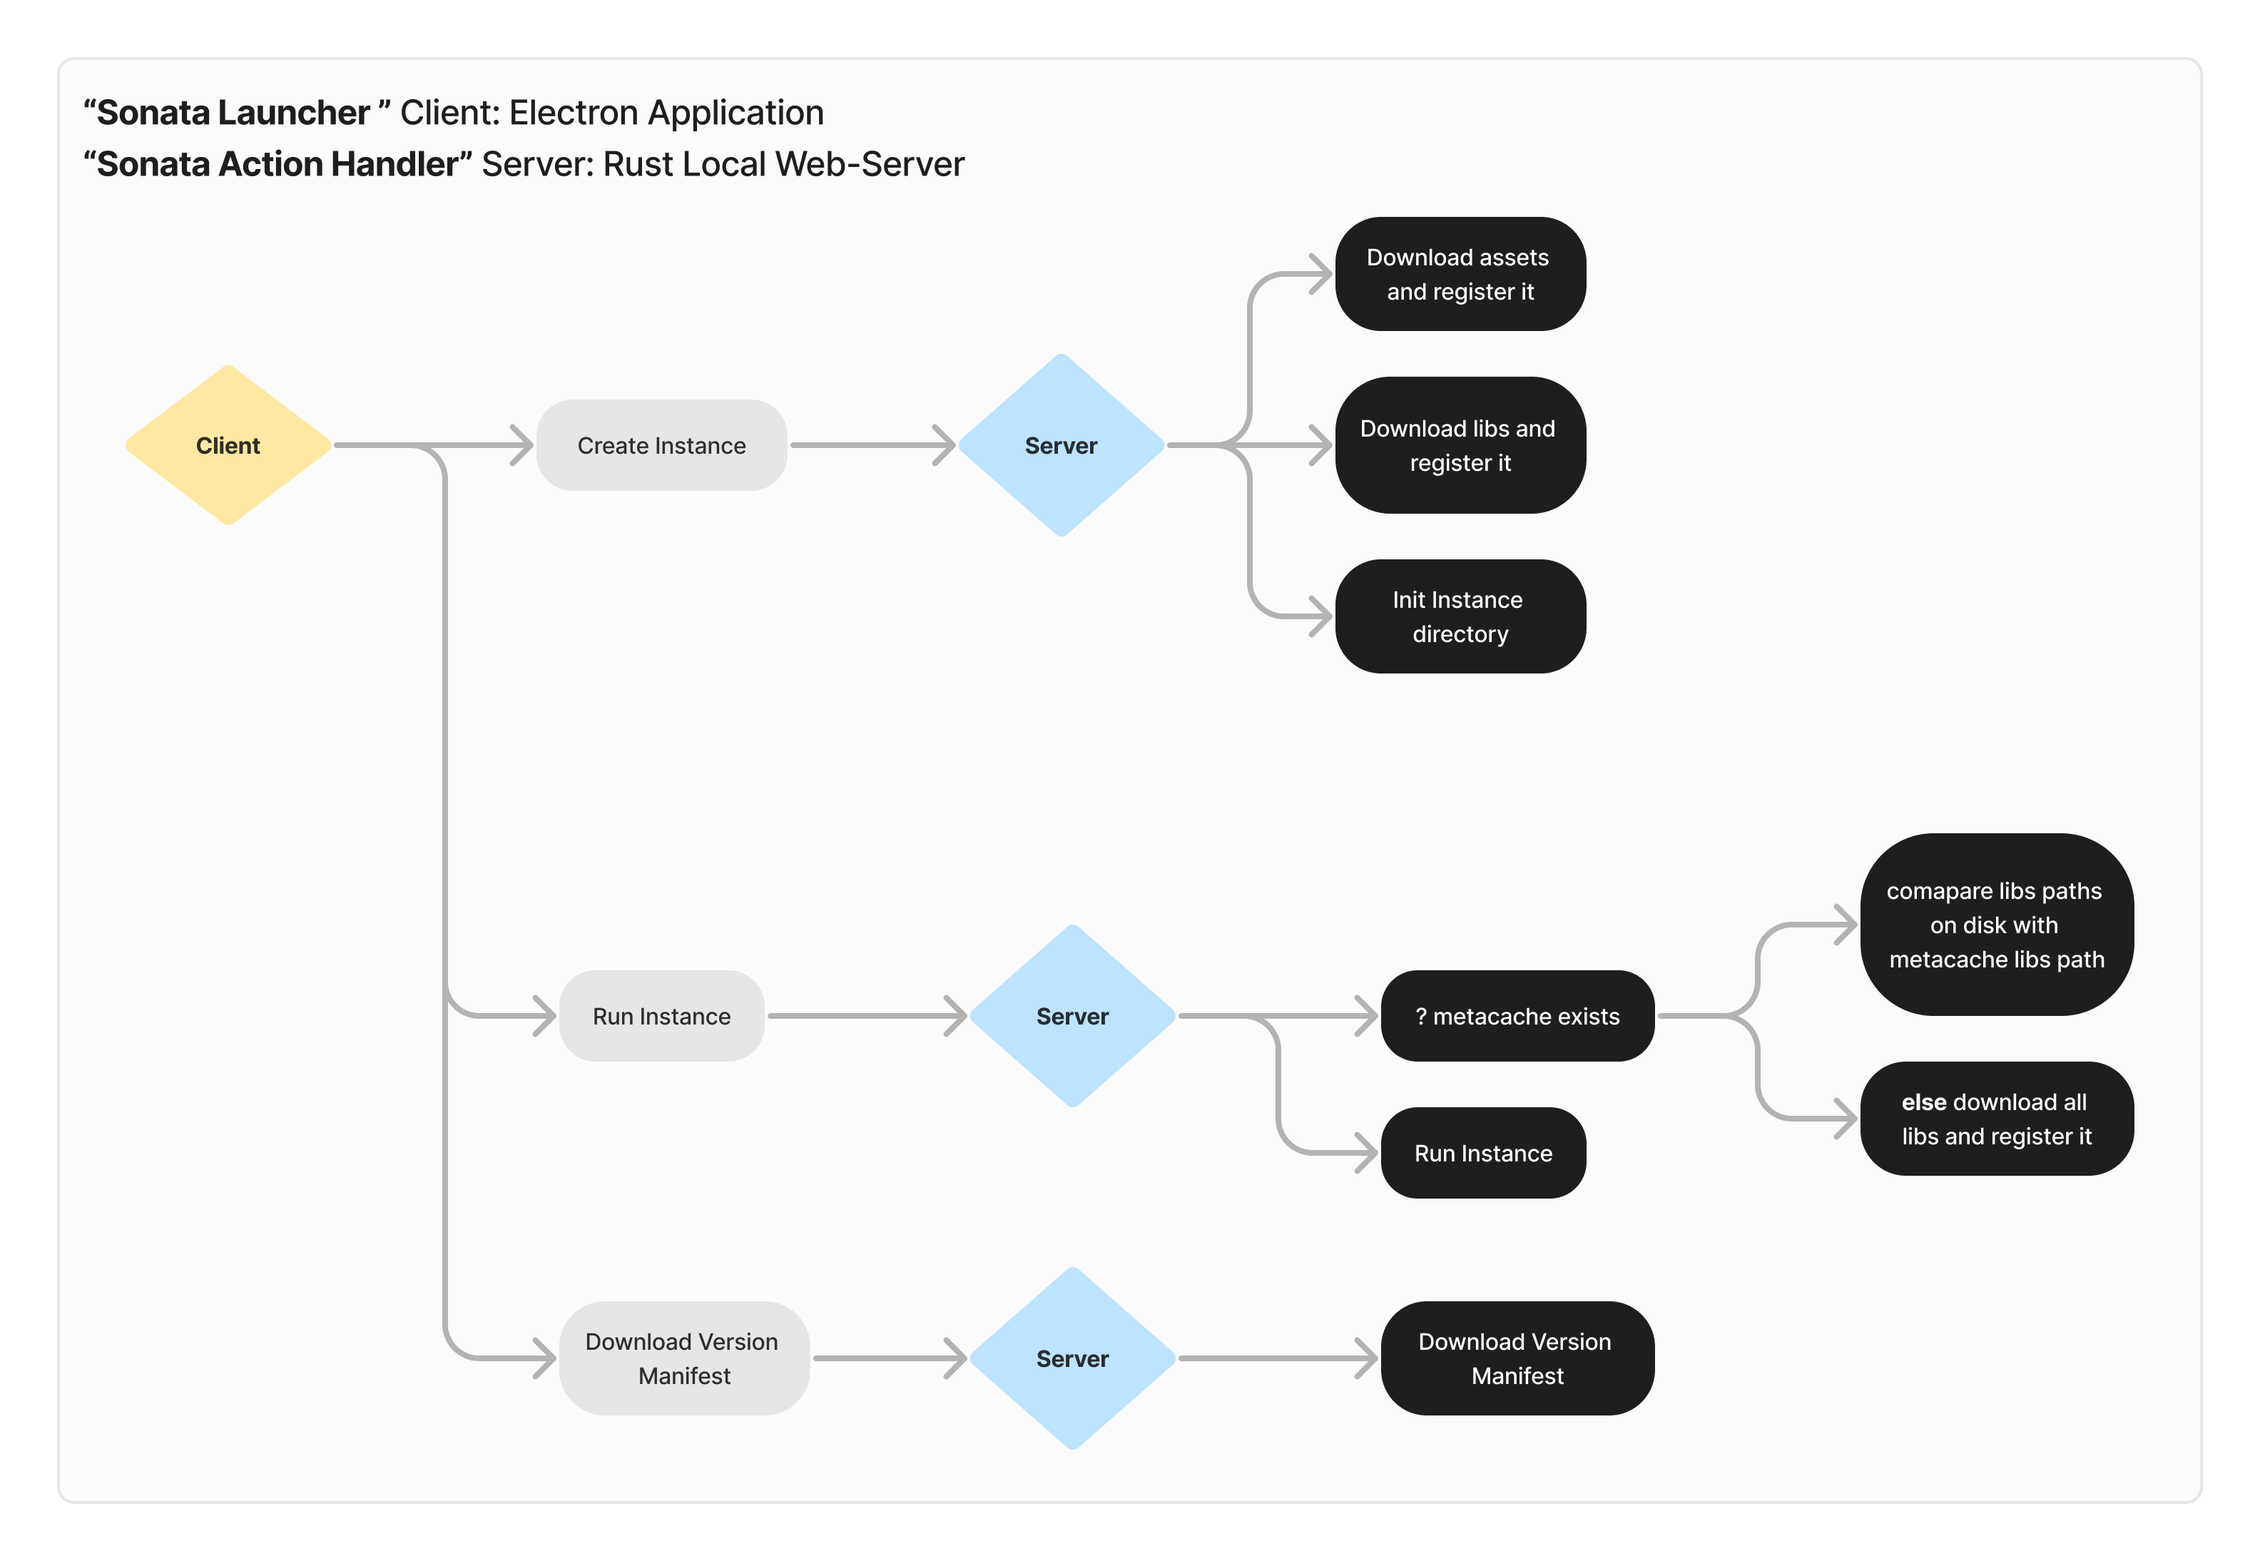
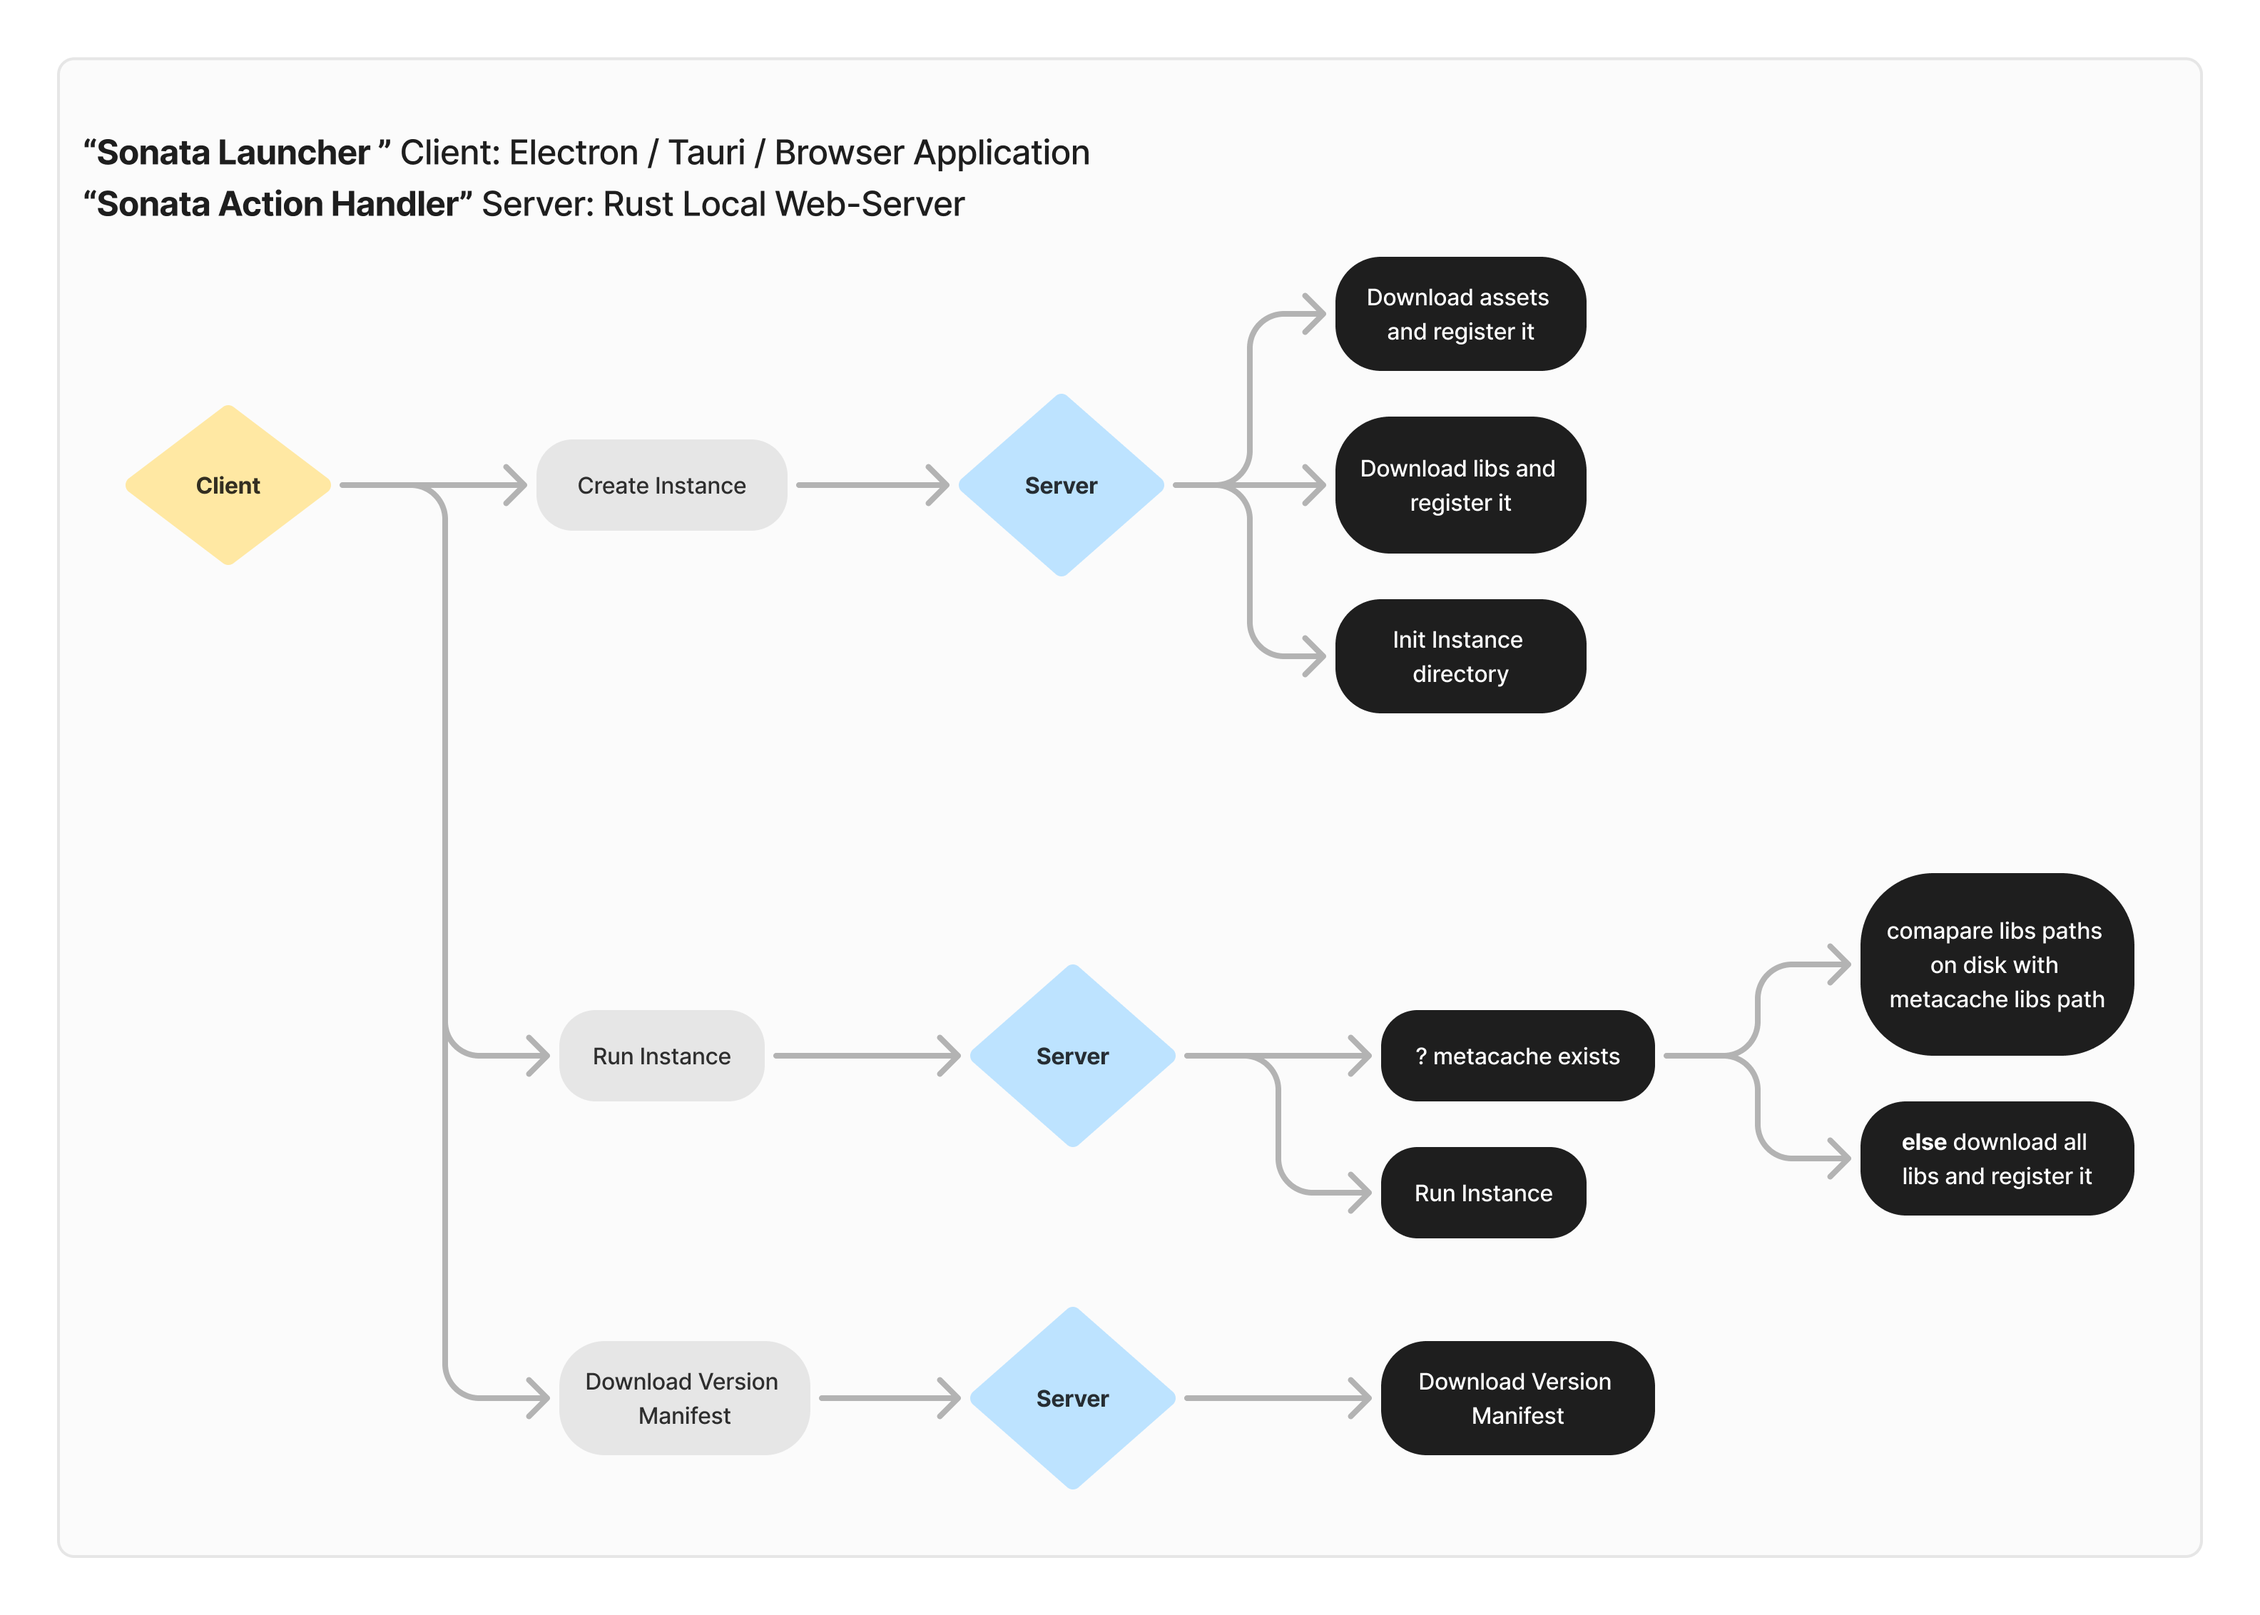
Update Todo and Application Architecture map

diff --git a/README.md b/README.md
@@ -30,7 +30,7 @@ cd action_handler && cargo run build
 - [ ] Implement **natives** folder handling
 - [ ] Separate endpoint for instance launching
 - [ ] Code refactoring in `instance/mod.rs`
-- [ ] Endpoint for sending of installed instances
+- [ ] Endpoint for sending installed instances
 	- [x] Instance directory initialization
  		- [x] Refactor `init_instance_dir` function
 	- [x] Installed instances storing implementation in JSON
@@ -38,7 +38,7 @@ cd action_handler && cargo run build
 	- [ ] Storing authenticated accounts
 #### Frontend
 - [ ] Refactor WebSocket messages types
-- [ ] Instance download manager with WebSockets integration
+- [x] Instance download manager with WebSockets integration
   - [ ] Switching between percentage and elapsed downloading time
 	- [ ] Correct `Cancel` button handling
 - [ ] Tasks widget on headerbar
@@ -47,6 +47,11 @@ cd action_handler && cargo run build
 	- [ ] Reusable grid display component
 - [ ] Account authentication
 - [ ] Refactor localization store
+- [ ] Migrate from Electron to Tauri
+    - [ ] Verify correct rendering of the interface in webview on different platforms
+        - [ ] Linux
+        - [x] macOS
+        - [ ] Windows
 
 ## Application Architecture
 ![Application Architecture Map](./Application%20Architecture.png)
